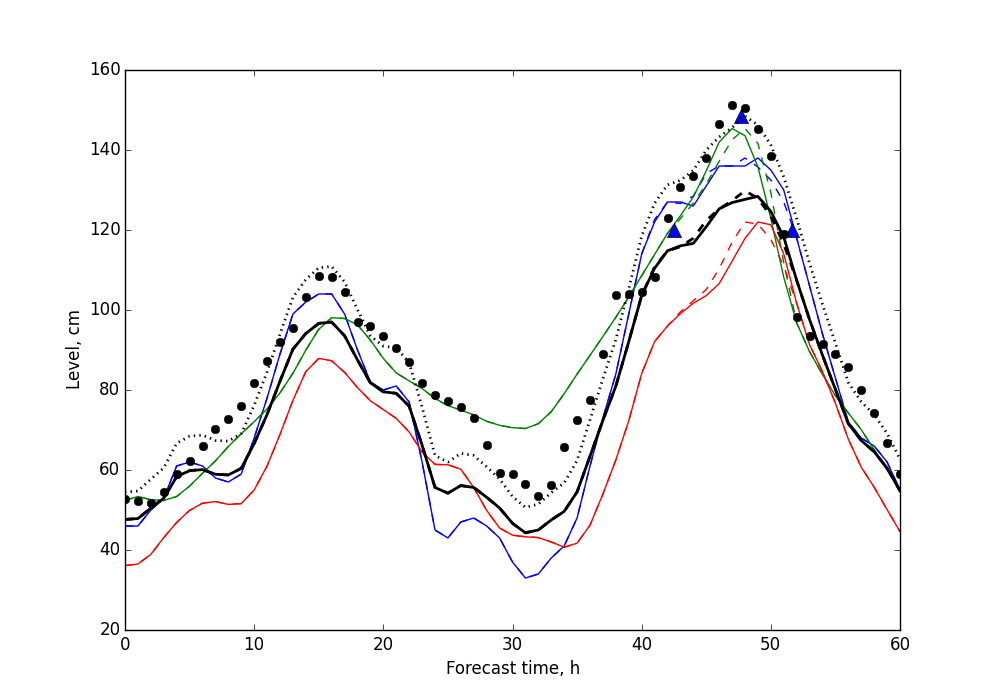
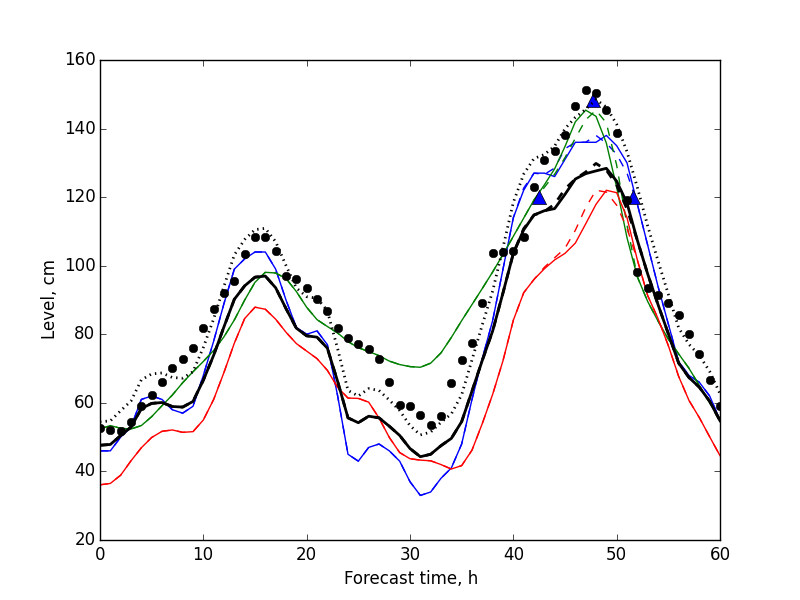
Figure tuning

diff --git a/peaks-compare.py b/peaks-compare.py
@@ -100,8 +100,8 @@ def forecast_error(fc, mm):
     return np.mean(ee), np.mean(ae), np.std(ee)
 
 
-pLevel = 100
-plot_forecasts = False
+pLevel = 120
+plot_forecasts = True
 calc_dtw = True
 source_v_scale_mode = sfp.ScaleType.no_scale
 ensemble_v_scale_mode = sfp.ScaleType.multiplication_all_scale
@@ -160,7 +160,7 @@ for i in range(len(p_flt)):
     peak_l[1] = res_params[0]
     e_fc = np.full(T + 1, c[3])
     if plot_forecasts:
-        plt.figure(i, figsize=(10, 7))
+        plt.figure(i, figsize=(8, 6))
     for src_i in range(3):
         plt.plot(t_idx, src_set[src_i][p_flt[i, 0]], colors[src_i] + '-')
         src_set[src_i][p_flt[i, 0]] = sfp.transform_forecast(src_set[src_i][p_flt[i, 0]], params[src_i],
